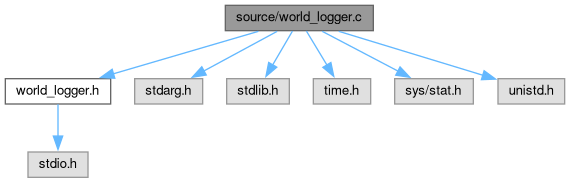
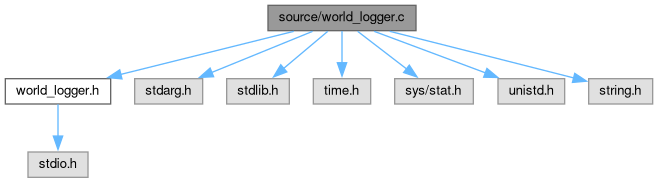
Deploying to gh-pages from @ osvegn/ECS@8c926db2bd09d592b0a23170d19a315d01d42ce4 🚀

Changed region(s): [[0.0, 0.0, 1.0, 0.5738], [0.0298, 0.8197, 0.1789, 0.9836], [0.0596, 0.5738, 0.1193, 0.8197]]

diff --git a/docs/ECS/world__logger_8h_source.html b/docs/ECS/world__logger_8h_source.html
@@ -127,15 +127,15 @@ $(document).ready(function(){initNavTree('world__logger_8h_source.html',''); ini
 <div class="line"><a id="l00031" name="l00031"></a><span class="lineno">   31</span><span class="keywordtype">void</span> <a class="code hl_function" href="world__logger_8h.html#a652cdb629ae44951644415f04b464031">world_log_destroy</a>(<span class="keywordtype">void</span>);</div>
 <div class="line"><a id="l00032" name="l00032"></a><span class="lineno">   32</span> </div>
 <div class="line"><a id="l00033" name="l00033"></a><span class="lineno">   33</span><span class="preprocessor">#endif </span><span class="comment">/* WORLD_LOGGER_H */</span><span class="preprocessor"></span></div>
-<div class="ttc" id="aworld__logger_8h_html_a34af02d4a590ad432e3355c149941a88"><div class="ttname"><a href="world__logger_8h.html#a34af02d4a590ad432e3355c149941a88">world_log_init</a></div><div class="ttdeci">int world_log_init(FILE *f)</div><div class="ttdef"><b>Definition:</b> world_logger.c:19</div></div>
+<div class="ttc" id="aworld__logger_8h_html_a34af02d4a590ad432e3355c149941a88"><div class="ttname"><a href="world__logger_8h.html#a34af02d4a590ad432e3355c149941a88">world_log_init</a></div><div class="ttdeci">int world_log_init(FILE *f)</div><div class="ttdef"><b>Definition:</b> world_logger.c:20</div></div>
 <div class="ttc" id="aworld__logger_8h_html_a5d7ee46be4a5c8a58876b97c497f2738"><div class="ttname"><a href="world__logger_8h.html#a5d7ee46be4a5c8a58876b97c497f2738">world_log_level</a></div><div class="ttdeci">world_log_level</div><div class="ttdef"><b>Definition:</b> world_logger.h:15</div></div>
 <div class="ttc" id="aworld__logger_8h_html_a5d7ee46be4a5c8a58876b97c497f2738a05169768d1354cab52cbdf79b65bd0a3"><div class="ttname"><a href="world__logger_8h.html#a5d7ee46be4a5c8a58876b97c497f2738a05169768d1354cab52cbdf79b65bd0a3">WORLD_LOG_LEVEL_DEBUG</a></div><div class="ttdeci">@ WORLD_LOG_LEVEL_DEBUG</div><div class="ttdef"><b>Definition:</b> world_logger.h:16</div></div>
 <div class="ttc" id="aworld__logger_8h_html_a5d7ee46be4a5c8a58876b97c497f2738a8f88bd972299eb043a19c0851c52a4af"><div class="ttname"><a href="world__logger_8h.html#a5d7ee46be4a5c8a58876b97c497f2738a8f88bd972299eb043a19c0851c52a4af">WORLD_LOG_LEVEL_FATAL</a></div><div class="ttdeci">@ WORLD_LOG_LEVEL_FATAL</div><div class="ttdef"><b>Definition:</b> world_logger.h:20</div></div>
 <div class="ttc" id="aworld__logger_8h_html_a5d7ee46be4a5c8a58876b97c497f2738ab066374030eecdd5ec1b0e8a8b73c554"><div class="ttname"><a href="world__logger_8h.html#a5d7ee46be4a5c8a58876b97c497f2738ab066374030eecdd5ec1b0e8a8b73c554">WORLD_LOG_LEVEL_WARN</a></div><div class="ttdeci">@ WORLD_LOG_LEVEL_WARN</div><div class="ttdef"><b>Definition:</b> world_logger.h:18</div></div>
 <div class="ttc" id="aworld__logger_8h_html_a5d7ee46be4a5c8a58876b97c497f2738aced20ef5e6c21605b375e20ea9582dea"><div class="ttname"><a href="world__logger_8h.html#a5d7ee46be4a5c8a58876b97c497f2738aced20ef5e6c21605b375e20ea9582dea">WORLD_LOG_LEVEL_INFO</a></div><div class="ttdeci">@ WORLD_LOG_LEVEL_INFO</div><div class="ttdef"><b>Definition:</b> world_logger.h:17</div></div>
 <div class="ttc" id="aworld__logger_8h_html_a5d7ee46be4a5c8a58876b97c497f2738afb8aeeffd05486dd98795d09879e729f"><div class="ttname"><a href="world__logger_8h.html#a5d7ee46be4a5c8a58876b97c497f2738afb8aeeffd05486dd98795d09879e729f">WORLD_LOG_LEVEL_ERROR</a></div><div class="ttdeci">@ WORLD_LOG_LEVEL_ERROR</div><div class="ttdef"><b>Definition:</b> world_logger.h:19</div></div>
-<div class="ttc" id="aworld__logger_8h_html_a652cdb629ae44951644415f04b464031"><div class="ttname"><a href="world__logger_8h.html#a652cdb629ae44951644415f04b464031">world_log_destroy</a></div><div class="ttdeci">void world_log_destroy(void)</div><div class="ttdef"><b>Definition:</b> world_logger.c:107</div></div>
-<div class="ttc" id="aworld__logger_8h_html_af7472095fa238acfee648af9075ff66e"><div class="ttname"><a href="world__logger_8h.html#af7472095fa238acfee648af9075ff66e">world_log</a></div><div class="ttdeci">int world_log(enum world_log_level level, const char *filename, int line, const char *fmt,...)</div><div class="ttdef"><b>Definition:</b> world_logger.c:81</div></div>
+<div class="ttc" id="aworld__logger_8h_html_a652cdb629ae44951644415f04b464031"><div class="ttname"><a href="world__logger_8h.html#a652cdb629ae44951644415f04b464031">world_log_destroy</a></div><div class="ttdeci">void world_log_destroy(void)</div><div class="ttdef"><b>Definition:</b> world_logger.c:108</div></div>
+<div class="ttc" id="aworld__logger_8h_html_af7472095fa238acfee648af9075ff66e"><div class="ttname"><a href="world__logger_8h.html#af7472095fa238acfee648af9075ff66e">world_log</a></div><div class="ttdeci">int world_log(enum world_log_level level, const char *filename, int line, const char *fmt,...)</div><div class="ttdef"><b>Definition:</b> world_logger.c:82</div></div>
 </div><!-- fragment --></div><!-- contents -->
 </div><!-- doc-content -->
 <!-- start footer part -->

diff --git a/docs/ECS/world__logger_8c.html b/docs/ECS/world__logger_8c.html
@@ -103,18 +103,20 @@ $(document).ready(function(){initNavTree('world__logger_8c.html',''); initResiza
 <code>#include &lt;time.h&gt;</code><br />
 <code>#include &lt;sys/stat.h&gt;</code><br />
 <code>#include &lt;unistd.h&gt;</code><br />
+<code>#include &lt;string.h&gt;</code><br />
 </div><div class="textblock"><div class="dynheader">
 Include dependency graph for world_logger.c:</div>
 <div class="dyncontent">
 <div class="center"><img src="world__logger_8c__incl.png" border="0" usemap="#asource_2world__logger_8c" alt=""/></div>
 <map name="asource_2world__logger_8c" id="asource_2world__logger_8c">
-<area shape="rect" title=" " alt="" coords="225,5,373,31"/>
+<area shape="rect" title=" " alt="" coords="268,5,416,31"/>
 <area shape="rect" href="world__logger_8h.html" title=" " alt="" coords="5,79,111,104"/>
 <area shape="rect" title=" " alt="" coords="135,79,203,104"/>
 <area shape="rect" title=" " alt="" coords="227,79,289,104"/>
 <area shape="rect" title=" " alt="" coords="313,79,371,104"/>
 <area shape="rect" title=" " alt="" coords="395,79,473,104"/>
 <area shape="rect" title=" " alt="" coords="498,79,565,104"/>
+<area shape="rect" title=" " alt="" coords="589,79,653,104"/>
 <area shape="rect" title=" " alt="" coords="28,152,88,177"/>
 </map>
 </div>
